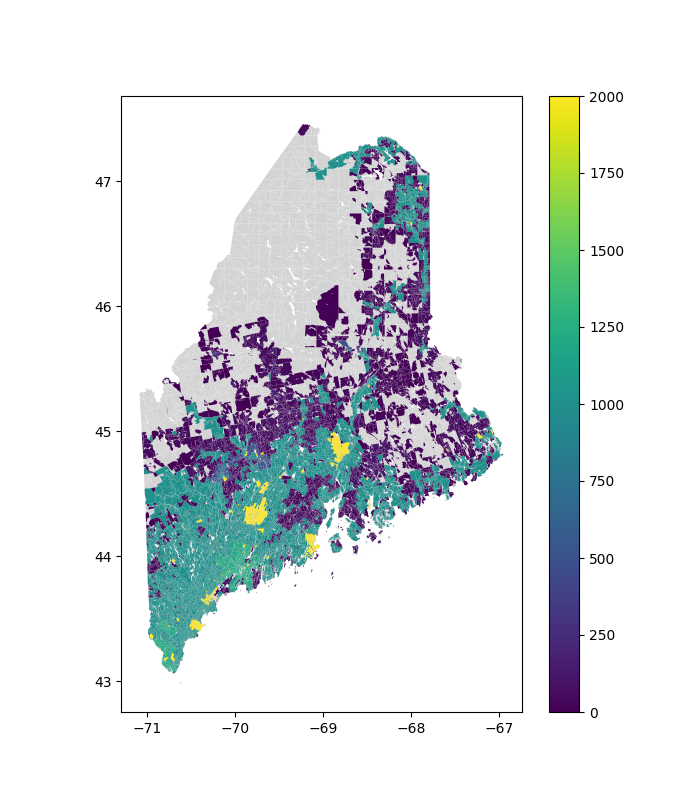
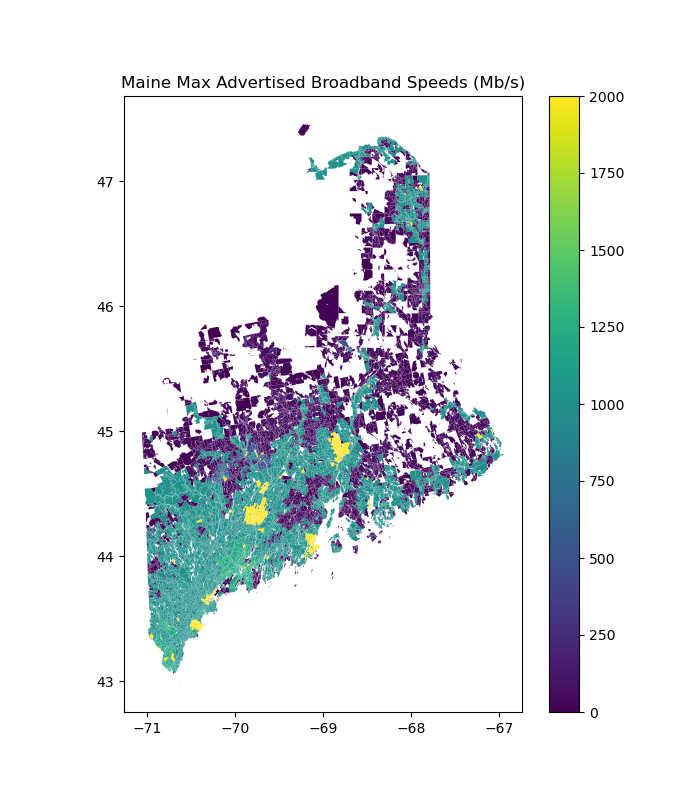
Cleaned up code, added figures to README

diff --git a/src/plot_block.py b/src/plot_block.py
@@ -8,43 +8,31 @@ import matplotlib as mpl
 from shapely.geometry import Polygon, LineString, Point
 
 
-json_path = "data/speeds.json"
-#cousubfile = ('https://www2.census.gov/geo/maps/DC2020/DC20BLK/st23_me/cousub/cs2301945810_millinocket/DC20BLK_CS2301945810_BLK2MS.txt')
-img_path = "img/Millinocket_speeds.png"
-
-print(end='\n')
-print("Reading JSON file with speed information")
-print("This can take up to 40 seconds")
-state_speeds = gpd.read_file(json_path)
-
 def read_census(file):
     df = pd.read_csv(file, sep=';', dtype={'FULLCODE':str, 'STATE':str, 'COUNTY':str})
     df = df.rename(columns={'FULLCODE':'block_fips'})
     #assert df.shape == shape
     return df
 
-print(end='\n')
-print("Fetching subdivision information from data folder")
-filename = "data/DC20BLK_CS2301945810_BLK2MS.txt"
-cousub  = read_census(filename)
-
-print(end='\n')
-print("Merging the two dataframes")   
 def merge_dataframes(d1, d2, onname, howname):
     d1 = d1.merge(d2, on=onname, how=howname)
     return d1
 
-cousub_speeds = merge_dataframes(state_speeds, cousub, 'block_fips', 'right')
-print(end='\n')
-print(f"The average speed in Millinocket is {cousub_speeds['max_speed'].mean()}")
 
-print(end='\n')
-print("Creating plot of the maximum broadband speeds available throughout Millinocket")
-print("This can take up to 15 seconds")
-fig, ax = plt.subplots(figsize=(7,8))
-cousub_speeds.plot(ax=ax, color='lightgray')
-cousub_speeds.plot(ax=ax, column='max_speed', legend=True);
-plt.savefig(img_path)
-print(end='\n')
-print("Plot saved to "+img_path)
-print("Complete!")
+def plot_block():
+    state_speeds = gpd.read_file("data/speeds.json")
+    cousub  = read_census("data/DC20BLK_CS2301945810_BLK2MS.txt")
+
+    cousub_speeds = merge_dataframes(state_speeds, cousub, 'block_fips', 'right')
+    print(end='\n')
+    print(f"The average speed in Millinocket is {cousub_speeds['max_speed'].mean()}")
+
+    #plot
+    fig, ax = plt.subplots()
+    cousub_speeds.plot(ax=ax, color='lightgray')
+    cousub_speeds.plot(ax=ax, column='max_speed', legend=True)
+    plt.title('Millinocket Max Advertised Broadband Speed (Mb/s)')
+    plt.savefig("img/Millinocket_speeds.png")
+
+if __name__ == "__main__":
+    plot_block()

diff --git a/src/create_json.py b/src/create_json.py
@@ -1,34 +1,26 @@
 import pandas as pd
-import numpy as np
 import geopandas as gpd
 
 
-print(end='\n')
-print("Reading the previously created broadband speeds file")
-df = pd.read_csv("data/speeds.csv", dtype={"block_fips":str})
+def speedGeo():
+    ''' Merges block broadband speeds with census geographies and saves to a json file'''
 
-def merge_dataframes(df1, df2, onname, howname):
-    df1 = df1.merge(df2, on=onname, how=howname)
-    return df1
+    #speeds data
+    speeds = pd.read_csv("data/speeds.csv", dtype={"block_fips":str})
 
-print(end='\n')
-print("Reading the census block file")
-print("This may take some time")
-filename = "data/tl_2022_23_tabblock20.zip"
+    #census geographies data
+    filename = "data/tl_2022_23_tabblock20.zip"
+    maine_block = gpd.read_file(filename, dtype={"GEOID20":str})
 
-stateblock = (filename)
+    #clean up geographies
+    maine_block = maine_block[maine_block['ALAND20'] > 0] #remove land area = 0
 
-maine_block = gpd.read_file(stateblock, dtype={"GEOID20":str})
-maine_block = maine_block[maine_block['ALAND20'] > 0]
-maine_block = maine_block.rename(columns={'GEOID20':'block_fips'})
+    #merge data
+    maine_block = maine_block.merge(speeds, left_on = 'GEOID20', right_on = 'block_fips')
 
-print(end='\n')
-print("Merging the two dataframes together")
-maine_block = merge_dataframes(maine_block, df, 'block_fips', 'left')
+    #save desired data
+    final = maine_block[['block_fips', 'max_speed', 'geometry']]
+    final.to_file("data/speeds.json", driver="GeoJSON") 
 
-print(end='\n')
-print("Writing the merged data to a JSON file")
-print("This will take some time")
-maine_block.to_file("data/speeds.json", driver="GeoJSON") 
-print(end='\n')
-print("Complete!")
+if __name__ == "__main__":
+    speedGeo()

diff --git a/src/plot_state.py b/src/plot_state.py
@@ -7,23 +7,18 @@ import matplotlib.pyplot as plt
 import matplotlib as mpl
 from shapely.geometry import Polygon, LineString, Point
 
-json_path = "data/speeds.json"
-img_path = "img/Maine_speeds.png"
 
-print(end='\n')
-print("Reading JSON file with speed info")
-print("This can take up to 40 seconds")
-state_speeds = gpd.read_file(json_path)
+def plot_state():
+	'''plots state broadband speeds by census block'''
 
-#Creates the plot of broadband speeds.  This is placed over a plot of the state in light gray as some areas may have
-#no available broadband.
-print(end='\n')
-print("Creating plot of the maximum broadband speeds available throughout the state")
-print("This can take up to 15 seconds")
-fig, ax = plt.subplots(figsize=(7,8))
-state_speeds.plot(ax=ax, color='lightgray')
-state_speeds.plot(ax=ax, column='max_speed', legend=True, vmax=2000);
-plt.savefig(img_path)
-print(end='\n')
-print("Plot saved to "+img_path)
-print("Complete!")
+	state_speeds = gpd.read_file('data/speeds.json')
+
+	#plot speeds
+	fig, ax = plt.subplots(figsize=(7,8))
+	state_speeds.plot(ax=ax, column='max_speed', legend=True, vmax=2000)
+	plt.title('Maine Max Advertised Broadband Speeds (Mb/s)')
+
+	plt.savefig('img/Maine_speeds.png')
+
+if __name__ == '__main__':
+    plot_state()

diff --git a/src/speeds.py b/src/speeds.py
@@ -16,15 +16,20 @@ def read_fcc(filename):
     filename - name of file without the path
     """
     df = pd.read_csv(base + filename, dtype={'block_geoid':str})
-    print(df.head())
     df = df.rename(columns={"block_geoid": "block_fips"})
     return df.groupby("block_fips")["max_advertised_download_speed"].max()
 
 
-block_speeds = {filename.split("_")[2]: read_fcc(filename) 
-                for i, filename in enumerate(filenames)}
+def speed_df():
+    """ creates a table of max broadband speeds by type and block, saves as a csv
+    """
+    block_speeds = {filename.split("_")[2]: read_fcc(filename) 
+                    for i, filename in enumerate(filenames)}
 
-df = pd.DataFrame(block_speeds)
-df["max_speed"] = df.max(axis=1)
+    df = pd.DataFrame(block_speeds)
+    df["max_speed"] = df.max(axis=1)
+    df.to_csv("data/speeds.csv", sep=',', header=True)
 
-df.to_csv(r"data/speeds.csv", sep=',', header=True)
+
+if __name__ == "__main__":
+    speed_df()

diff --git a/src/compute_avg.py b/src/compute_avg.py
@@ -1,19 +1,24 @@
 import pandas as pd
-import matplotlib as plt
 
 millinocket = "data/DC20BLK_CS2301945810_BLK2MS.txt"
 
+
 def compute_bb():
+    ''' selects speeds for millinocket blocks and calculates average of those blocks
+        returns: average (float)
+    '''
     
     place = pd.read_csv(millinocket, sep=";")
     speed = pd.read_csv("data/speeds.csv")
 
     place = place.merge(speed, how="left", left_on="FULLCODE", right_on="block_fips")
-    #return place["max_speed"].groupby(["COUSUB"]).mean()
-    return round(place["max_speed"].mean(),3)
-    
+    return round(place["max_speed"].mean(),3) #NAs are excluded from calculation
+
+
 def compute_avg():
     avg = compute_bb()
     print("\nMillinocket average download speed:", avg)
 
-compute_avg()
+
+if __name__ == "__main__":
+    compute_avg()

diff --git a/README.md b/README.md
@@ -43,10 +43,11 @@ Create a plot for maximum broadband speeds available throughout Maine
 ```
 make state
 ```
-
+![](img/Maine_speeds.png)
 ## Step 5
 Create a plot for maximum broadband speeds available in the individual Census blocks of Millinocket, Maine
 
 ```
 make block
 ```
+![](img/Millinocket_speeds.png)
